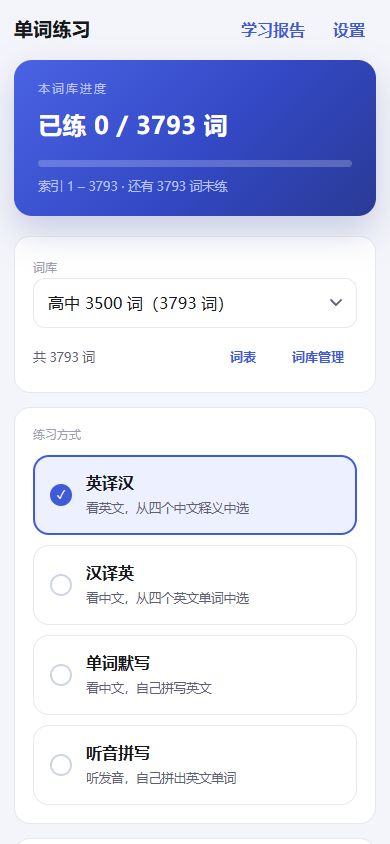
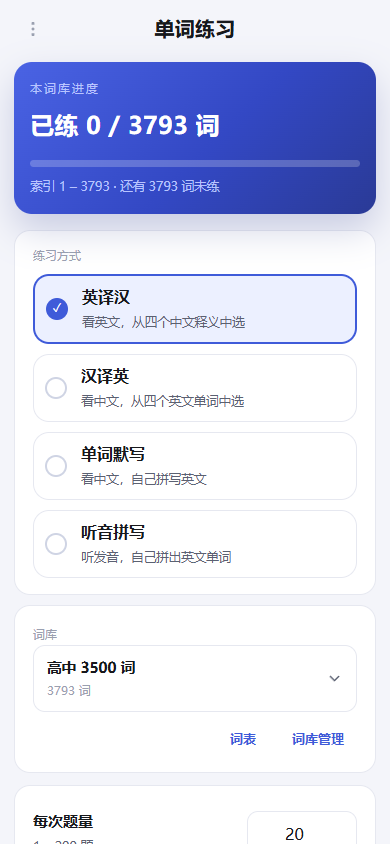
feat: 首页顺序调整与紧凑布局；手机三点贴左
- 手机端三点按钮绝对定位到最左，标题仍居中
- 首页顺序改为 进度 → 练习方式 → 开始练习 → 题量/范围 → 词库
- 删除首页「清空练习记录」入口（设置里仍有）
- 练习方式 PC 端改两列，题量/范围合并为更紧凑的行
- 首页卡片收紧，1280x900 / 1440x800 / 1366x768 均无需滚动

diff --git a/public/app.js b/public/app.js
@@ -360,8 +360,13 @@ async function renderHome() {
       <div class="sub">${esc(sub)}</div>
     </section>
 
-    <div class="home-grid" style="margin-top:20px">
+    <div class="home-grid" style="margin-top:16px">
       <div class="stack">
+        <div class="card">
+          <div class="hint" style="margin-bottom:8px">练习方式</div>
+          <div class="mode-list">${modes}</div>
+        </div>
+
         <div class="card book-card">
           <label class="hint" for="bookPick">词库</label>
           <div class="book-picker" id="bookPicker">
@@ -384,39 +389,36 @@ async function renderHome() {
                 </button>`).join('')}
             </div>
           </div>
-          <div class="row" style="margin-top:12px">
+          <div class="row" style="margin-top:10px">
             <div class="meta"></div>
             <button class="btn text small" data-action="list">词表</button>
             <button class="btn text small" data-action="books">词库管理</button>
           </div>
         </div>
-
-        <div class="card">
-          <div class="hint" style="margin-bottom:10px">练习方式</div>
-          <div class="mode-list">${modes}</div>
-        </div>
       </div>
 
       <div class="stack">
-        <div class="card settings">
+        <div class="card settings start-card">
           <div class="line">
             <div><div class="title">每次题量</div><small>1 – 200 题</small></div>
             <input id="countInput" class="input narrow" type="number" min="1" max="200" value="${state.count}">
           </div>
           <div class="divider"></div>
-          <div class="title">练习范围（词库索引）</div>
-          <div class="hint">${max ? `可填 1 – ${max}；留空表示整本词库` : '没有可输入的索引'}</div>
-          <div class="range-row" style="margin-top:8px">
-            <input id="startInput" class="input" type="number" min="1" placeholder="起始" value="${state.start ?? ''}">
-            <input id="endInput" class="input" type="number" min="1" placeholder="结束" value="${state.end ?? ''}">
+          <div class="line" style="padding-bottom:0">
+            <div><div class="title">练习范围</div><small>${max ? `1 – ${max}，留空为整本` : '没有可输入的索引'}</small></div>
+            <div class="range-mini">
+              <input id="startInput" class="input narrow" type="number" min="1" placeholder="起" value="${state.start ?? ''}">
+              <span>–</span>
+              <input id="endInput" class="input narrow" type="number" min="1" placeholder="止" value="${state.end ?? ''}">
+            </div>
           </div>
           <label class="checkbox">
             <input id="repeatInput" type="checkbox" ${state.allowRepeat ? 'checked' : ''}>
-            允许重复抽到已练过的单词
+            允许重复抽到已练过的
           </label>
         </div>
 
-        <button class="btn block" data-action="start" ${max ? '' : 'disabled'}>开始练习</button>
+        <button class="btn block start-btn" data-action="start" ${max ? '' : 'disabled'}>开始练习</button>
 
         <button class="btn ghost block review-btn" data-action="review" ${reviewTotal ? '' : 'disabled'}>
           ${reviewTotal
@@ -424,14 +426,10 @@ async function renderHome() {
     : '练过之后就能复习'}
         </button>
         ${reviewTotal
-    ? `<div class="hint" style="text-align:center;margin-top:-6px">
+    ? `<div class="hint review-hint">
             ${due ? `今天到期 ${due} 个` : '今天的都复习过了'} · 练过的 ${reviewTotal} 个都能复习
           </div>`
     : ''}
-
-        <div style="text-align:center">
-          <button class="btn text small" data-action="clear-log">清空练习记录</button>
-        </div>
       </div>
     </div>
     </div>`;

diff --git a/public/style.css b/public/style.css
@@ -1832,3 +1832,39 @@ button, .mode, .opt, .word-row, .drop { -webkit-tap-highlight-color: transparent
   .nav-drawer, .nav-sheet, .nav-sheet .nav-item { animation: none; }
 }
 
+
+/* ---------- 移动端三点靠最左，标题仍居中 ---------- */
+
+@media (max-width: 760px) {
+  /* 标题绝对定位居中，不再被三点推挤 */
+  .topbar { position: relative; justify-content: center; }
+  .topbar h1 { position: relative; z-index: 1; }
+  .topbar .nav-toggle { position: absolute; left: 0; top: 50%; transform: translateY(-50%); }
+
+  /* 其它页：三点在左，返回键紧跟其后，标题仍在返回键右侧 */
+  .page-head .nav-toggle { flex: none; margin-left: -6px; }
+}
+
+/* 首页卡片紧凑一点，PC 上不用翻页 */
+.home-page .home-grid { gap: 12px 16px; }
+.home-page .stack { gap: 10px; }
+.home-page .card { padding: 16px 18px; }
+.home-page .mode { padding: 9px 11px; }
+.home-page .mode small { margin-top: 1px; }
+.home-page .start-card .line { padding: 8px 0; }
+.home-page .start-card .divider { margin: 6px 0; }
+.home-page .start-btn { height: 46px; }
+.home-page .review-btn { height: 42px; margin-top: 2px; }
+.home-page .review-hint { margin-top: -4px; }
+
+.range-mini { display: flex; align-items: center; gap: 5px; color: var(--hint); font-size: 12px; }
+.range-mini .input.narrow { width: 58px; }
+
+/* 练习方式改为两列，省掉一屏高度 */
+@media (min-width: 761px) {
+  .home-page .mode-list { display: grid; grid-template-columns: 1fr 1fr; gap: 8px; }
+  .home-page .mode { padding: 10px 12px; }
+  .home-page .mode small { font-size: 11.5px; line-height: 1.35; }
+  /* 两列后左右两栏顶部对齐，不用再多留间距 */
+  .home-page .home-grid { align-items: start; }
+}
